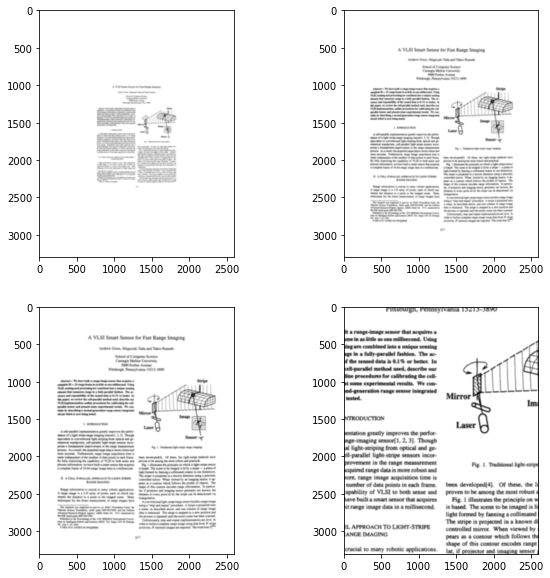
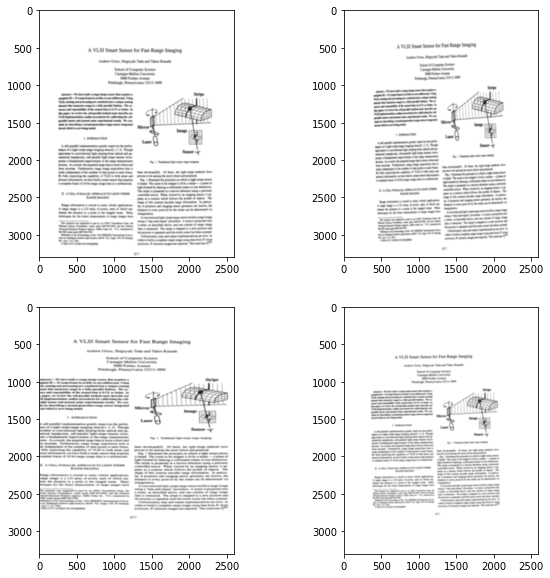
README

diff --git a/ocrodeg/degrade.py b/ocrodeg/degrade.py
@@ -1,5 +1,6 @@
 from random import randint
 from numpy import *
+import random as pyr
 import scipy.ndimage as ndi
 import numpy as np
 import pylab
@@ -17,19 +18,11 @@ def autoinvert(image):
 # random geometric transformations
 #
 
-def random_trs(translation=0.05, rotation=2.0, scale=0.1, aniso=0.1):
-    if not isinstance(translation, (tuple, list)):
-        translation = (-translation, translation)
-    if not isinstance(rotation, (tuple, list)):
-        rotation = (-rotation, rotation)
-    if not isinstance(scale, (tuple, list)):
-        scale = (-scale, scale)
-    if not isinstance(aniso, (tuple, list)):
-        aniso = (-aniso, aniso)
+def random_transform(translation=(-0.05, 0.05), rotation=(-2, 2), scale=(-0.1, 0.1), aniso=(-0.1, 0.1)):
     dx = pyr.uniform(*translation)
     dy = pyr.uniform(*translation)
     angle = pyr.uniform(*rotation)
-    angle = alpha * pi / 180.0
+    angle = angle * pi / 180.0
     scale = 10**pyr.uniform(*scale)
     aniso = 10**pyr.uniform(*aniso)
     return dict(angle=angle, scale=scale, aniso=aniso, translation=(dx, dy))

diff --git a/README.md b/README.md
@@ -27,7 +27,7 @@ imshow(image)
 
 
 
-    <matplotlib.image.AxesImage at 0x7f06e26352d0>
+    <matplotlib.image.AxesImage at 0x7fabcc7ab390>
 
 
 
@@ -37,6 +37,8 @@ imshow(image)
 
 # PAGE ROTATION
 
+This is just for illustration; for large page rotations, you can just use `ndimage`.
+
 
 ```python
 for i, angle in enumerate([0, 90, 180, 270]):
@@ -45,10 +47,42 @@ for i, angle in enumerate([0, 90, 180, 270]):
 ```
 
 
-![png](README_files/README_4_0.png)
+![png](README_files/README_5_0.png)
 
 
 # RANDOM GEOMETRIC TRANSFORMATIONS
+
+`random_transform` generates random transformation parameters that work reasonably well for document image degradation. You can override the ranges used by each of these parameters by keyword arguments.
+
+
+```python
+ocrodeg.random_transform()
+```
+
+
+
+
+    {'angle': -0.016783842893063807,
+     'aniso': 0.805280370671964,
+     'scale': 0.9709145529604223,
+     'translation': (0.014319657859164045, 0.03676897986267606)}
+
+
+
+Here are four samples generated by random transforms.
+
+
+```python
+for i in xrange(4):
+    subplot(2, 2, i+1)
+    imshow(ocrodeg.transform_image(image, **ocrodeg.random_transform()))
+```
+
+
+![png](README_files/README_10_0.png)
+
+
+You can use `transform_image` directly with the different parameters to get a feel for the ranges and effects of these parameters.
 
 
 ```python
@@ -58,7 +92,7 @@ for i, angle in enumerate([-2, -1, 0, 1]):
 ```
 
 
-![png](README_files/README_6_0.png)
+![png](README_files/README_12_0.png)
 
 
 
@@ -69,7 +103,7 @@ for i, angle in enumerate([-2, -1, 0, 1]):
 ```
 
 
-![png](README_files/README_7_0.png)
+![png](README_files/README_13_0.png)
 
 
 
@@ -80,7 +114,7 @@ for i, aniso in enumerate([0.5, 1.0, 1.5, 2.0]):
 ```
 
 
-![png](README_files/README_8_0.png)
+![png](README_files/README_14_0.png)
 
 
 
@@ -91,7 +125,7 @@ for i, aniso in enumerate([0.5, 1.0, 1.5, 2.0]):
 ```
 
 
-![png](README_files/README_9_0.png)
+![png](README_files/README_15_0.png)
 
 
 
@@ -102,7 +136,7 @@ for i, scale in enumerate([0.5, 0.9, 1.0, 2.0]):
 ```
 
 
-![png](README_files/README_10_0.png)
+![png](README_files/README_16_0.png)
 
 
 
@@ -114,10 +148,12 @@ for i, scale in enumerate([0.5, 0.9, 1.0, 2.0]):
 ```
 
 
-![png](README_files/README_11_0.png)
+![png](README_files/README_17_0.png)
 
 
 # RANDOM DISTORTIONS
+
+Pages often also have a small degree of warping. This can be modeled by random distortions. Very small and noisy random distortions also model ink spread, while large 1D random distortions model paper curl.
 
 
 ```python
@@ -130,7 +166,7 @@ for i, sigma in enumerate([1.0, 2.0, 5.0, 20.0]):
 ```
 
 
-![png](README_files/README_13_0.png)
+![png](README_files/README_20_0.png)
 
 
 # RULED SURFACE DISTORTIONS
@@ -146,10 +182,12 @@ for i, mag in enumerate([5.0, 20.0, 100.0, 200.0]):
 ```
 
 
-![png](README_files/README_15_0.png)
+![png](README_files/README_22_0.png)
 
 
 # BLUR, THRESHOLDING, NOISE
+
+There are a range of utilities for modeling imaging artifacts: blurring, noise, inkspread.
 
 
 ```python
@@ -160,12 +198,12 @@ imshow(patch)
 
 
 
-    <matplotlib.image.AxesImage at 0x7f06daae51d0>
+    <matplotlib.image.AxesImage at 0x7fabc88c7e10>
 
 
 
 
-![png](README_files/README_17_1.png)
+![png](README_files/README_25_1.png)
 
 
 
@@ -177,7 +215,7 @@ for i, s in enumerate([0, 1, 2, 4]):
 ```
 
 
-![png](README_files/README_18_0.png)
+![png](README_files/README_26_0.png)
 
 
 
@@ -190,7 +228,7 @@ for i, s in enumerate([0, 1, 2, 4]):
 ```
 
 
-![png](README_files/README_19_0.png)
+![png](README_files/README_27_0.png)
 
 
 
@@ -204,7 +242,7 @@ for i, s in enumerate([0.0, 1.0, 2.0, 4.0]):
 ```
 
 
-![png](README_files/README_20_0.png)
+![png](README_files/README_28_0.png)
 
 
 
@@ -216,7 +254,7 @@ for i, s in enumerate([0.0, 0.1, 0.2, 0.3]):
 ```
 
 
-![png](README_files/README_21_0.png)
+![png](README_files/README_29_0.png)
 
 
 # MULTISCALE NOISE
@@ -230,7 +268,7 @@ for i in range(4):
 ```
 
 
-![png](README_files/README_23_0.png)
+![png](README_files/README_31_0.png)
 
 
 # RANDOM BLOBS
@@ -243,7 +281,7 @@ for i, s in enumerate([2, 5, 10, 20]):
 ```
 
 
-![png](README_files/README_25_0.png)
+![png](README_files/README_33_0.png)
 
 
 
@@ -257,12 +295,12 @@ subplot(121); imshow(patch); subplot(122); imshow(blotched)
 
 
 
-    <matplotlib.image.AxesImage at 0x7f06dab07ad0>
+    <matplotlib.image.AxesImage at 0x7fabc8a35490>
 
 
 
 
-![png](README_files/README_26_1.png)
+![png](README_files/README_34_1.png)
 
 
 # FIBROUS NOISE
@@ -275,12 +313,12 @@ imshow(ocrodeg.make_fibrous_image((256, 256), 700, 300, 0.01))
 
 
 
-    <matplotlib.image.AxesImage at 0x7f06da6953d0>
+    <matplotlib.image.AxesImage at 0x7fabc8852450>
 
 
 
 
-![png](README_files/README_28_1.png)
+![png](README_files/README_36_1.png)
 
 
 # FOREGROUND / BACKGROUND SELECTION
@@ -293,12 +331,12 @@ subplot(121); imshow(patch); subplot(122); imshow(ocrodeg.printlike_multiscale(p
 
 
 
-    <matplotlib.image.AxesImage at 0x7f06daa4c790>
+    <matplotlib.image.AxesImage at 0x7fabc8676d90>
 
 
 
 
-![png](README_files/README_30_1.png)
+![png](README_files/README_38_1.png)
 
 
 
@@ -309,10 +347,10 @@ subplot(121); imshow(patch); subplot(122); imshow(ocrodeg.printlike_fibrous(patc
 
 
 
-    <matplotlib.image.AxesImage at 0x7f06dab42ed0>
+    <matplotlib.image.AxesImage at 0x7fabc8d1b250>
 
 
 
 
-![png](README_files/README_31_1.png)
+![png](README_files/README_39_1.png)
 
